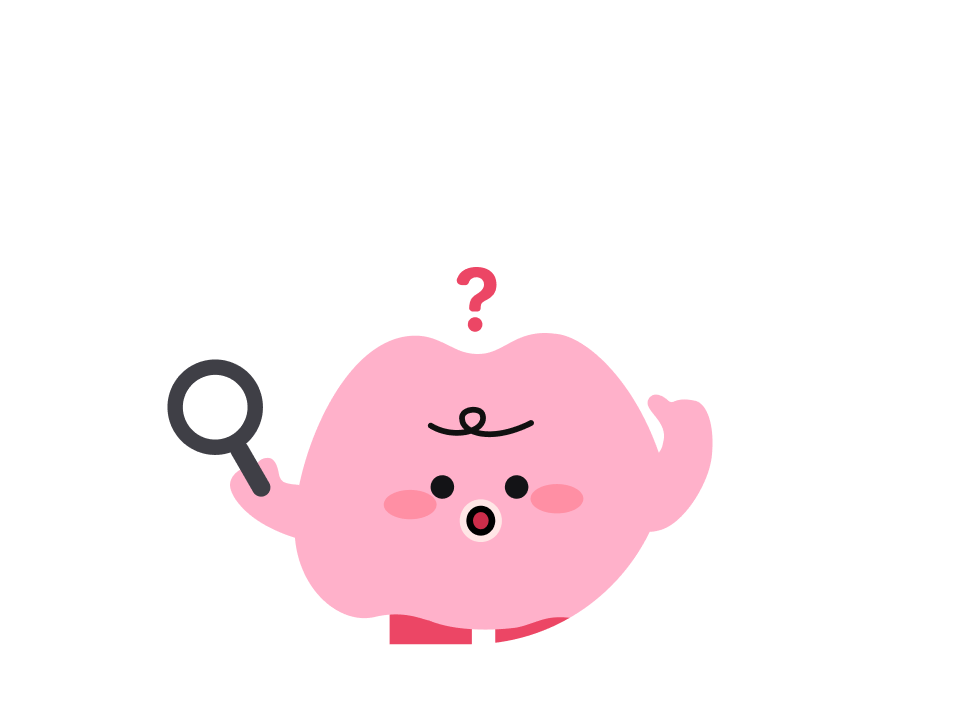
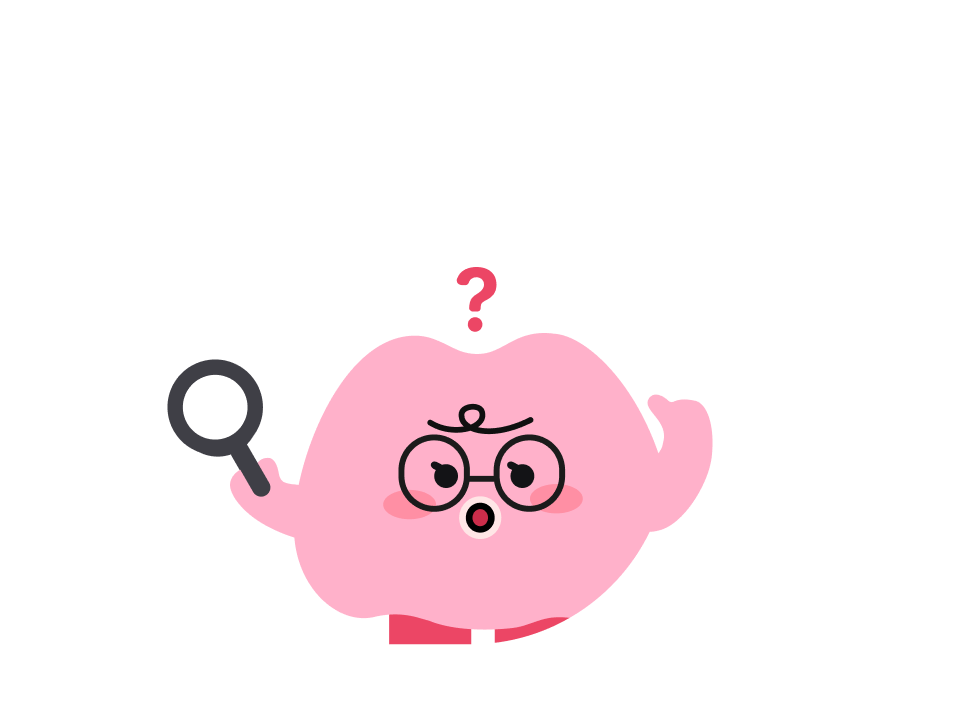
Fix: 변경된 이미지에 맞춰서 컴포넌트 수정

Changed region(s): [[0.4062, 0.5593, 0.5938, 0.7768], [0.2188, 0.6215, 0.25, 0.6525]]

diff --git a/apps/react/src/app/history/delete/page.tsx b/apps/react/src/app/history/delete/page.tsx
@@ -1,12 +1,10 @@
 import { DetailHeaderBar } from '@/shared/components/header-bar'
 import { createFileRoute } from '@tanstack/react-router'
-import { useEffect } from 'react'
-import { useInView } from 'react-intersection-observer'
 import { Button } from '@/shared/ui'
 import { cn } from '@ui/common/lib/utils'
 import { useChatHistoryQuery } from '@/features/history/hook/use-chat-history-query'
 import { useChatSelect } from '@/features/history/hook/use-chat-select'
-import noResultImage from '@/assets/images/characters/no-result-gray.png'
+import noResultImage from '@/assets/images/characters/empty.png'
 import { CheckIcon, EmptyState, SelectableChatHistoryItem } from '@/features/history/ui/chat-history-item'
 import { useInfiniteScroll } from '@/shared/hook/use-infinite-scroll'
 

diff --git a/apps/react/src/features/history/ui/chat-history-item.tsx b/apps/react/src/features/history/ui/chat-history-item.tsx
@@ -73,7 +73,7 @@ interface EmptyStateProps {
 
 export const EmptyState = ({ image, title, description, className }: EmptyStateProps) => (
   <div className={className}>
-    <img src={image} alt="Empty State" className="mb-5 px-7" />
+    <img src={image} alt="Empty State" className="mb-5 px-7 pt-14" />
     <div className="text-center">
       <p className="heading1-bold mb-1">{title}</p>
       <p className="body2-medium text-gray-iron-500">{description}</p>
